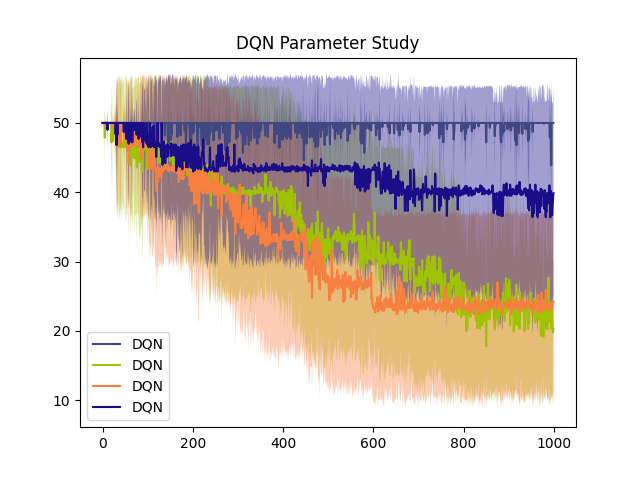
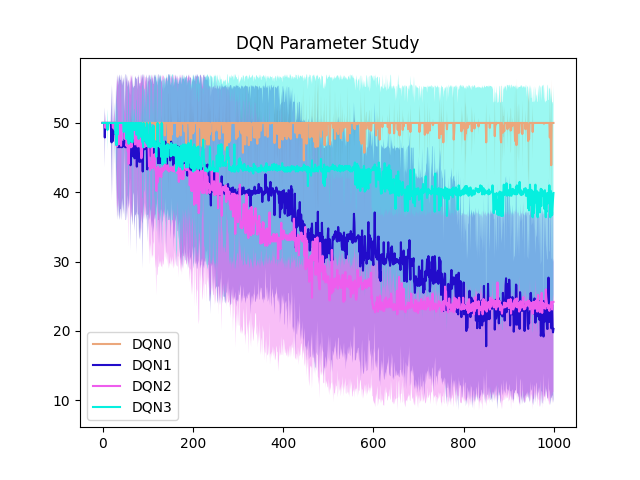
Experiment.

diff --git a/Agents/DQNMCTSAgent.py b/Agents/DQNMCTSAgent.py
@@ -7,6 +7,10 @@ from Agents.MCTSAgent import MCTSAgent
 from Agents.BaseDynaAgent import BaseDynaAgent
 from DataStructures.Node import Node
 import Utils as utils
+import Config as config
+
+episodes_only_dqn = config.episodes_only_dqn
+episodes_only_mcts = config.episodes_only_mcts
 
 
 # MCTS uses DQN values for nodes initialization
@@ -20,18 +24,27 @@ class DQNMCTSAgent_InitialValue(MCTSAgent, BaseDynaAgent):
 
     def start(self, observation):
         self.episode_counter += 1
-        if self.episode_counter % 2 == 0:
+        if self.episode_counter < episodes_only_dqn:
             action = BaseDynaAgent.start(self, observation)
-        else:
+        elif self.episode_counter < episodes_only_dqn + episodes_only_mcts:
             action = MCTSAgent.start(self, observation)
+        else:
+            if self.episode_counter % 2 == 0:
+                action = BaseDynaAgent.start(self, observation)
+            else:
+                action = MCTSAgent.start(self, observation)
         return action
 
     def step(self, reward, observation):
-        if self.episode_counter % 2 == 0:
-            action = BaseDynaAgent.step(self, reward, observation)
+        if self.episode_counter < episodes_only_dqn:
+            action = BaseDynaAgent.start(self, observation)
+        elif self.episode_counter < episodes_only_dqn + episodes_only_mcts:
+            action = MCTSAgent.start(self, observation)
         else:
-            action = MCTSAgent.step(self, reward, observation)
-
+            if self.episode_counter % 2 == 0:
+                action = BaseDynaAgent.start(self, observation)
+            else:
+                action = MCTSAgent.start(self, observation)
         return action
 
     def end(self, reward):

diff --git a/Analyze2.py b/Analyze2.py
@@ -33,8 +33,8 @@ def plot_simple_agent(steps_run_list, label_name, axs):
         drawPlotUncertainty(x_steps_run_list,
                             mean_steps_run_list[stepsize_index],
                             std_steps_run_list[stepsize_index],
-                            # label="MCTS(Baseline)" + str(stepsize_index),
-                            label=label_name,
+                            label=label_name + str(stepsize_index),
+                            # label=label_name,
                             color=generate_hex_color(),
                             axis=axs)
 

diff --git a/Main.py b/Main.py
@@ -86,5 +86,5 @@ if __name__ == '__main__':
                                         experiment_object_list.append(obj)
     # x = time.time()
     detail = "Env = 4room - 4x4"
-    experiment.run_experiment(experiment_object_list, result_file_name="MCTS_ParameterStudy", detail=detail)
+    experiment.run_experiment(experiment_object_list, result_file_name="DQNMCTS_InitialValue", detail=detail)
     # print(time.time() - x)

diff --git a/Config.py b/Config.py
@@ -1,7 +1,11 @@
 # # experiment
-num_runs = 1
-num_episode = 200
+num_runs = 5
+num_episode = 1200
 max_step_each_episode = 50
+
+episodes_only_dqn = 1000
+episodes_only_mcts = 200
+
 
 num_thread = 2
 
